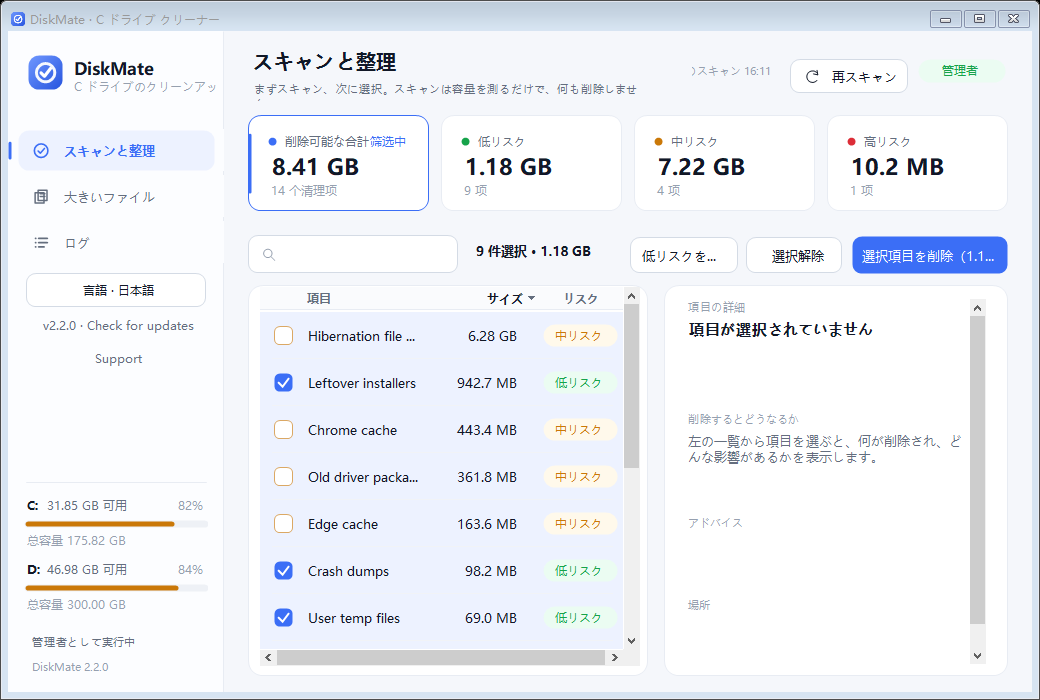
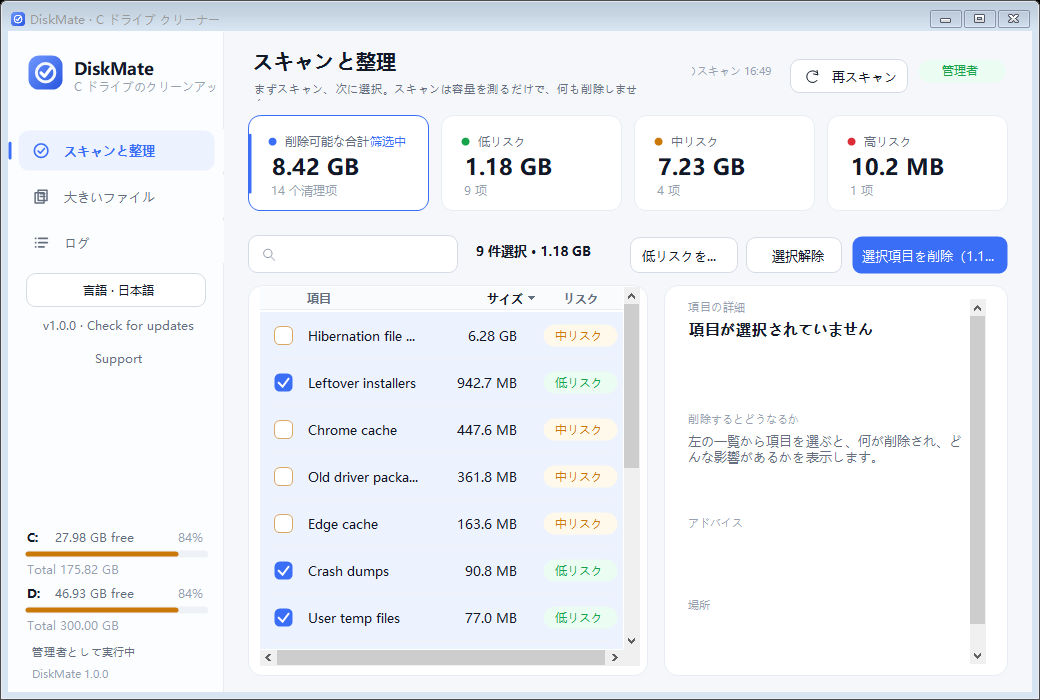
fix(sidebar): 磁盘占用条按字体高度排版并自适应堆叠；版本号改为 1.0.0

diff --git a/src/Controls.cs b/src/Controls.cs
@@ -260,41 +260,71 @@ namespace DiskMate
         public char Letter = 'C';
         public long Total, Free;
 
+        /// <summary>行高按字体实际高度算，避免高 DPI 下文字压到进度条上。</summary>
+        private static int RowH
+        {
+            get { return Math.Max(Theme.P(18), Theme.Small.Height + Theme.P(2)); }
+        }
+
+        /// <summary>控件建议高度（两行文字 + 进度条 + 间距）。</summary>
+        public static int PreferredHeight
+        {
+            get { return RowH * 2 + Theme.P(16); }
+        }
+
         public DiskMeter()
         {
             SetStyle(ControlStyles.AllPaintingInWmPaint | ControlStyles.UserPaint |
                      ControlStyles.OptimizedDoubleBuffer | ControlStyles.ResizeRedraw, true);
             BackColor = Theme.Sidebar;
-            Size = new Size(184, 58);
+            Size = new Size(Theme.P(184), PreferredHeight);
         }
 
         protected override void OnPaint(PaintEventArgs e)
         {
-            var g = e.Graphics;
+            Graphics g = e.Graphics;
             g.SmoothingMode = SmoothingMode.AntiAlias;
             g.Clear(Theme.Sidebar);
+
+            int rowH = RowH;
+            int barH = Theme.P(7);
+            int gap = Theme.P(4);
+            int barY = rowH + gap;
+            int line2Y = barY + barH + Theme.P(3);
+
             if (Total <= 0)
             {
-                TextRenderer.DrawText(g, Letter + ": 不可用", Theme.Small, new Rectangle(0, 0, Width, Height), Theme.TextFaint, Theme.LeftMid);
+                TextRenderer.DrawText(g, I18n.F("drive.none", Letter.ToString()), Theme.Small,
+                    new Rectangle(0, 0, Width, rowH), Theme.TextFaint, Theme.LeftMid);
                 return;
             }
+
             double usedPct = (Total - Free) * 100.0 / Total;
 
-            TextRenderer.DrawText(g, Letter + ":", Theme.SmallBold, new Rectangle(0, 0, 20, 18), Theme.Text, Theme.LeftMid);
-            TextRenderer.DrawText(g, Theme.Fmt(Free) + " 可用", Theme.Small, new Rectangle(20, 0, Width - 44, 18), Theme.TextSub, Theme.LeftMid);
-            TextRenderer.DrawText(g, usedPct.ToString("N0") + "%", Theme.Small, new Rectangle(0, 0, Width, 18), Theme.TextFaint, Theme.RightMid);
+            int letterW = Math.Min(Width, Theme.P(24));
+            int pctW = Theme.P(44);
+            TextRenderer.DrawText(g, Letter + ":", Theme.SmallBold,
+                new Rectangle(0, 0, letterW, rowH), Theme.Text, Theme.LeftMid);
+            TextRenderer.DrawText(g, I18n.F("drive.free", Theme.Fmt(Free)), Theme.Small,
+                new Rectangle(letterW + Theme.P(4), 0, Math.Max(0, Width - letterW - pctW - Theme.P(8)), rowH),
+                Theme.TextSub, Theme.LeftMid);
+            TextRenderer.DrawText(g, usedPct.ToString("N0") + "%", Theme.Small,
+                new Rectangle(Math.Max(0, Width - pctW), 0, pctW, rowH), Theme.TextFaint, Theme.RightMid);
 
-            var bar = new Rectangle(0, 24, Width, 7);
-            Theme.FillRound(g, bar, 4, Color.FromArgb(238, 241, 246));
+            var bar = new Rectangle(0, barY, Width, barH);
+            Theme.FillRound(g, bar, Theme.P(4), Color.FromArgb(238, 241, 246));
             int w = (int)Math.Round(Width * Math.Min(1.0, usedPct / 100.0));
-            if (w > 3)
-                Theme.FillRound(g, new Rectangle(1, 25, w - 2, 5), 3,
-                    usedPct > 90 ? Theme.High : (usedPct > 75 ? Theme.Mid : Theme.Primary));
+            if (w > Theme.P(3))
+            {
+                int inset = Theme.P(1);
+                Theme.FillRound(g, new Rectangle(inset, barY + inset, Math.Max(1, w - inset * 2), Math.Max(1, barH - inset * 2)),
+                    Theme.P(3), usedPct > 90 ? Theme.High : (usedPct > 75 ? Theme.Mid : Theme.Primary));
+            }
 
-            TextRenderer.DrawText(g, "总容量 " + Theme.Fmt(Total), Theme.Small, new Rectangle(0, 35, Width, 18), Theme.TextFaint, Theme.LeftMid);
+            TextRenderer.DrawText(g, I18n.F("drive.total", Theme.Fmt(Total)), Theme.Small,
+                new Rectangle(0, line2Y, Width, rowH), Theme.TextFaint, Theme.LeftMid);
         }
     }
-
     // ============================================================ spinner
     internal class Spinner : Control
     {

diff --git a/src/MainForm.cs b/src/MainForm.cs
@@ -26,6 +26,7 @@ namespace DiskMate
         private UpdateInfo pendingUpdate;
         private bool checkingUpdate;
         private DiskMeter dmC, dmD;
+        private int meterTop;
         private Badge chipAdmin;
         private Banner banner;
 
@@ -366,15 +367,34 @@ namespace DiskMate
                 btnDonate.Location = new Point(Theme.P(18), y + Theme.P(78));
             }
 
-            int bottom = sidebar.Height - Theme.P(18);
-            lblVersion.Location = new Point(Theme.P(22), bottom - Theme.P(15));
+            // 底部区：版本 → 权限 → D 盘 → C 盘，从下往上依次堆叠，间距与控件高度都随 DPI 缩放
+            int meterH = DiskMeter.PreferredHeight;
+            int pad = Theme.P(12);
+
+            int bottom = sidebar.Height - Theme.P(10);
+            lblVersion.Location = new Point(Theme.P(22), bottom - lblVersion.Height);
             lblVersion.Width = sidebar.Width - Theme.P(40);
-            lblAdmin.Location = new Point(Theme.P(22), bottom - Theme.P(40));
+
+            int adminY = lblVersion.Top - Theme.P(2) - lblAdmin.Height;
+            lblAdmin.Location = new Point(Theme.P(22), adminY);
             lblAdmin.Width = sidebar.Width - Theme.P(40);
-            dmD.Location = new Point(Theme.P(16), lblAdmin.Top - Theme.P(74));
+
+            int dmDY = adminY - Theme.P(8) - meterH;
+            int dmCY = dmDY - Theme.P(4) - meterH;
+
+            // 垂直空间不足时不显示磁盘条（例如小屏 + 200% 缩放），避免和上方按钮叠在一起
+            int limit = (btnDonate != null ? btnDonate.Bottom : Theme.P(300)) + Theme.P(10);
+            bool roomForMeters = dmCY >= limit;
+            dmC.Visible = roomForMeters;
+            dmD.Visible = roomForMeters;
+            meterTop = roomForMeters ? dmCY : (adminY - Theme.P(8) - Theme.P(14));
+
+            dmD.Location = new Point(Theme.P(16), dmDY);
             dmD.Width = sidebar.Width - Theme.P(32);
-            dmC.Location = new Point(Theme.P(16), dmD.Top - Theme.P(64));
+            dmD.Height = meterH;
+            dmC.Location = new Point(Theme.P(16), dmCY);
             dmC.Width = sidebar.Width - Theme.P(32);
+            dmC.Height = meterH;
             sidebar.Invalidate();
         }
 
@@ -393,7 +413,7 @@ namespace DiskMate
             TextRenderer.DrawText(g, I18n.T("app.tagline"), Theme.Small, new Rectangle(Theme.P(63), Theme.P(46), Theme.P(146), Theme.P(18)), Theme.TextFaint, Theme.LeftMid);
 
             using (var pen = new Pen(Theme.Border))
-                g.DrawLine(pen, Theme.P(18), dmC.Top - Theme.P(14), sidebar.Width - Theme.P(18), dmC.Top - Theme.P(14));
+                g.DrawLine(pen, Theme.P(18), meterTop, sidebar.Width - Theme.P(18), meterTop);
         }
 
         private void ShowPage(int idx)
@@ -1322,7 +1342,13 @@ namespace DiskMate
             CheckOverlap(sb, "detailScroll / 加入清理", detailScroll, btnDetToggle);
             CheckOverlap(sb, "detailScroll / 打开目录", detailScroll, btnOpenFolder);
             CheckOverlap(sb, "listCard / detailCard", lvItems, detailCard);
-            sb.AppendLine("  detailCard=" + detailCard.Bounds + " scroll=" + detailScroll.Bounds
+            CheckOverlap(sb, "dmC / btnDonate", dmC, btnDonate);
+            CheckOverlap(sb, "dmC / dmD", dmC, dmD);
+            CheckOverlap(sb, "dmD / lblAdmin", dmD, lblAdmin);
+            CheckOverlap(sb, "lblAdmin / lblVersion", lblAdmin, lblVersion);
+            sb.AppendLine("  dmC=" + (dmC == null ? "null" : dmC.Bounds.ToString() + " vis=" + dmC.Visible)
+                + " dmD=" + (dmD == null ? "null" : dmD.Bounds.ToString() + " vis=" + dmD.Visible)
+                + " meterH=" + (dmC == null ? 0 : DiskMeter.PreferredHeight) + " fontH=" + Theme.Small.Height);            sb.AppendLine("  detailCard=" + detailCard.Bounds + " scroll=" + detailScroll.Bounds
                 + " toggle=" + btnDetToggle.Bounds + " folder=" + btnOpenFolder.Bounds);
             return sb.ToString();
         }

diff --git a/src/Update.cs b/src/Update.cs
@@ -12,7 +12,7 @@ namespace DiskMate
     public static class AppInfo
     {
         /// <summary>程序版本。发版时改这里（tag 用 v + 同样的数字）。</summary>
-        public const string Version = "2.2.1";
+        public const string Version = "1.0.0";
 
         /// <summary>GitHub 仓库。</summary>
         public const string Repo = "ankeji/DiskMate";
@@ -87,29 +87,22 @@ namespace DiskMate
         public static UpdateInfo Check(out string error)
         {
             error = null;
-            UpdateInfo best = null;
             var errors = new List<string>();
-            int reachable = 0;
 
             bool ok1;
             UpdateInfo a = TrySource(ManifestUrl, errors, out ok1);
-            if (ok1) reachable++;
-            if (a != null) best = a;
-
-            bool ok2;
-            UpdateInfo b = TrySource(ReleaseApi, errors, out ok2);
-            if (ok2) reachable++;
-            if (b != null)
+            if (ok1)
             {
-                bool newer = best == null || ParseVersion(b.Version) > ParseVersion(best.Version);
-                bool betterNotes = best != null && ParseVersion(b.Version) == ParseVersion(best.Version)
-                                   && best.Notes.Length == 0 && b.Notes.Length > 0;
-                if (newer || betterNotes) best = b;
+                // version.txt 由 CI 每次发版生成，是权威源：可达就以它为准，
+                // 避免历史上更高版本号的旧 Release 被误判成「有更新」
+                return a;
             }
 
-            if (best != null) return best;
-            // 只要有一个源成功访问且没给出更高版本，就是「已是最新」，不算失败
-            if (reachable == 0 && errors.Count > 0) error = string.Join("; ", errors.ToArray());
+            // 清单不可达时才退回 GitHub Releases API
+            bool ok2;
+            UpdateInfo b = TrySource(ReleaseApi, errors, out ok2);
+            if (b != null) return b;
+            if (!ok2 && errors.Count > 0) error = string.Join("; ", errors.ToArray());
             return null;
         }
 

diff --git a/src/I18n.cs b/src/I18n.cs
@@ -54,8 +54,38 @@ namespace DiskMate
             AddCommon();
             AddUpdate();
             AddDonate();
+            AddDrive();
         }
 
+        /// <summary>侧边栏磁盘占用条词条。</summary>
+        private static void AddDrive()
+        {
+            string[,] rows =
+            {
+                { "zh-CN", "drive.free", "{0} 可用" },
+                { "zh-CN", "drive.total", "总容量 {0}" },
+                { "zh-CN", "drive.none", "{0}: 不可用" },
+
+                { "zh-TW", "drive.free", "{0} 可用" },
+                { "zh-TW", "drive.total", "總容量 {0}" },
+                { "zh-TW", "drive.none", "{0}: 不可用" },
+
+                { "en-US", "drive.free", "{0} free" },
+                { "en-US", "drive.total", "Total {0}" },
+                { "en-US", "drive.none", "{0}: unavailable" }
+            };
+
+            for (int i = 0; i < rows.GetLength(0); i++)
+            {
+                Dictionary<string, string> d;
+                if (!data.TryGetValue(rows[i, 0], out d))
+                {
+                    d = new Dictionary<string, string>(StringComparer.OrdinalIgnoreCase);
+                    data[rows[i, 0]] = d;
+                }
+                d[rows[i, 1]] = rows[i, 2];
+            }
+        }
         /// <summary>赞助弹窗词条（其余语言回退英文）。</summary>
         private static void AddDonate()
         {

diff --git a/docs/release-notes-v1.0.0.md b/docs/release-notes-v1.0.0.md
@@ -1,0 +1,16 @@
+## DiskMate v1.0.0
+
+首个正式版本。
+
+1. 修复侧边栏磁盘占用条在高 DPI 下文字与进度条重叠的问题：行高按字体实际高度计算，控件高度、进度条、内边距全部随缩放
+2. 侧边栏底部改为从下往上依次堆叠（版本 → 权限 → D 盘 → C 盘），垂直空间不足时自动隐藏磁盘条，不再和上方按钮挤在一起
+3. 磁盘占用条支持多语言（可用空间 / 总容量 / 不可用）
+4. 版本号改为 1.0.0
+5. 检查更新以 version.txt 为权威源，历史 Release 不再干扰版本判断
+
+### English
+1. Fixed disk-usage rows overlapping the bar at high DPI: row height now derives from the real font height, and height/bar/padding all scale
+2. Sidebar bottom now stacks upward (version → admin → D drive → C drive) and hides the meters when there is not enough room
+3. Disk meters are localized (free / total / unavailable)
+4. Version number is now 1.0.0
+5. Update check treats version.txt as the authoritative source, so historical releases no longer confuse it
